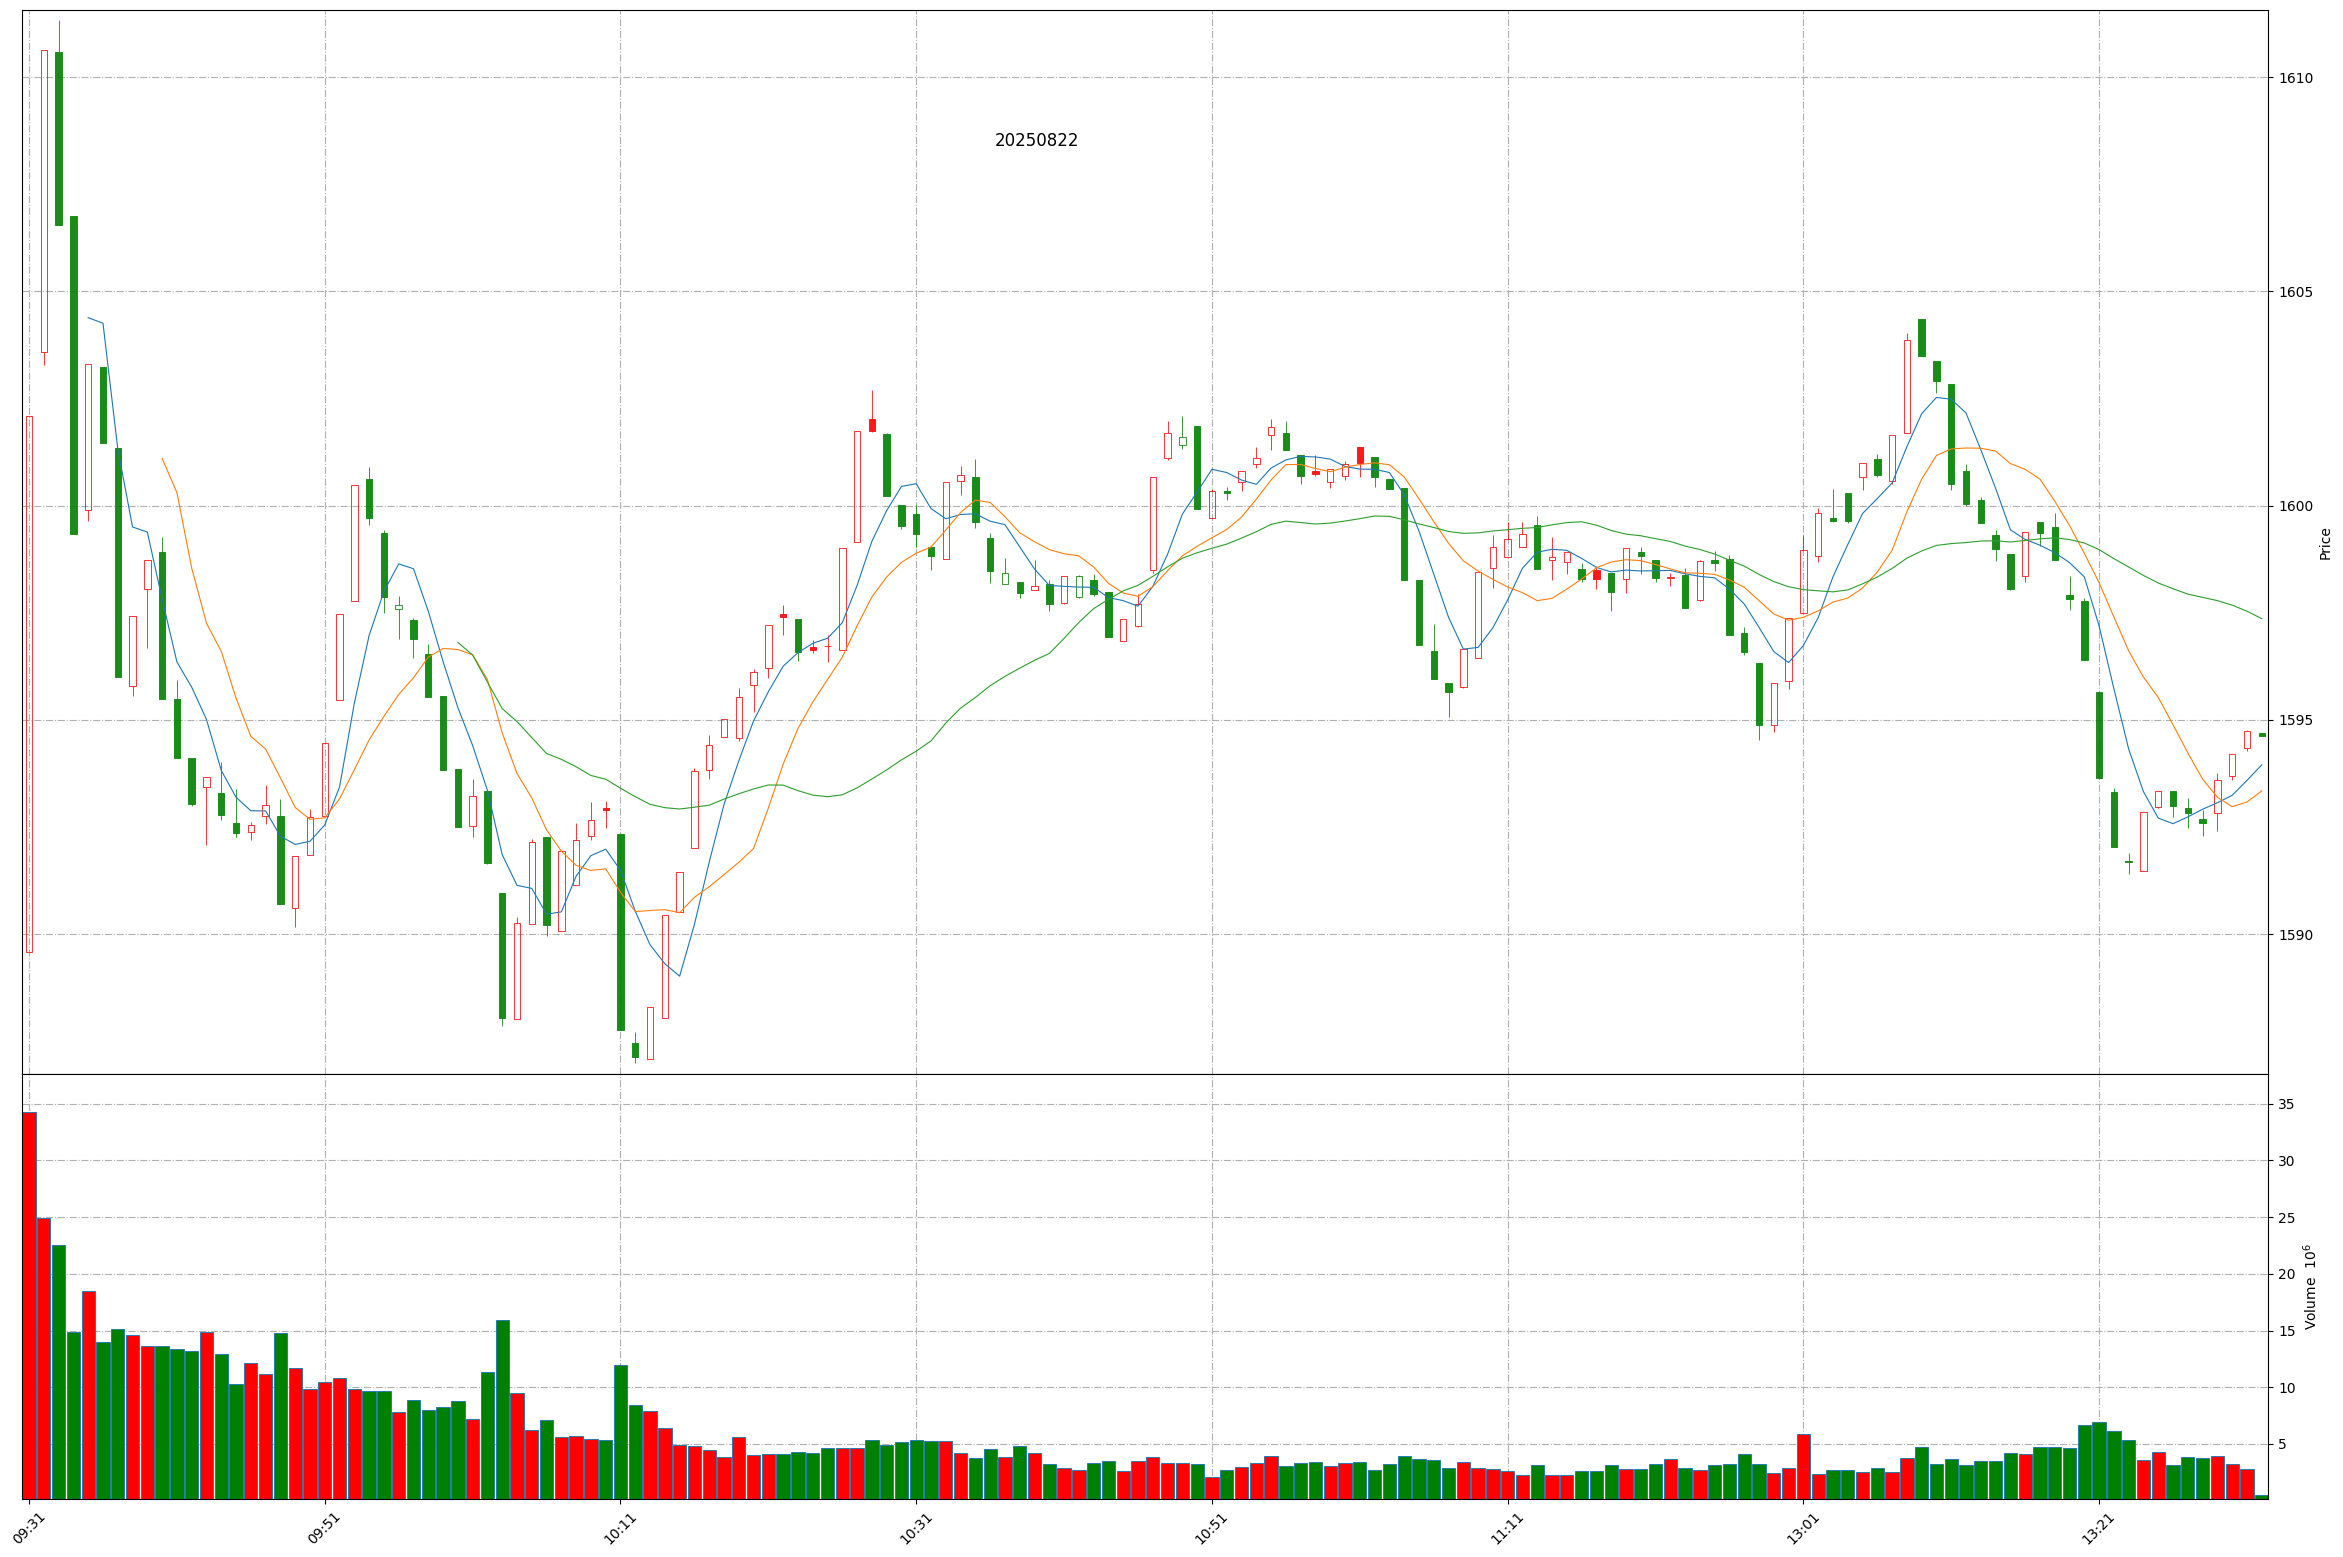
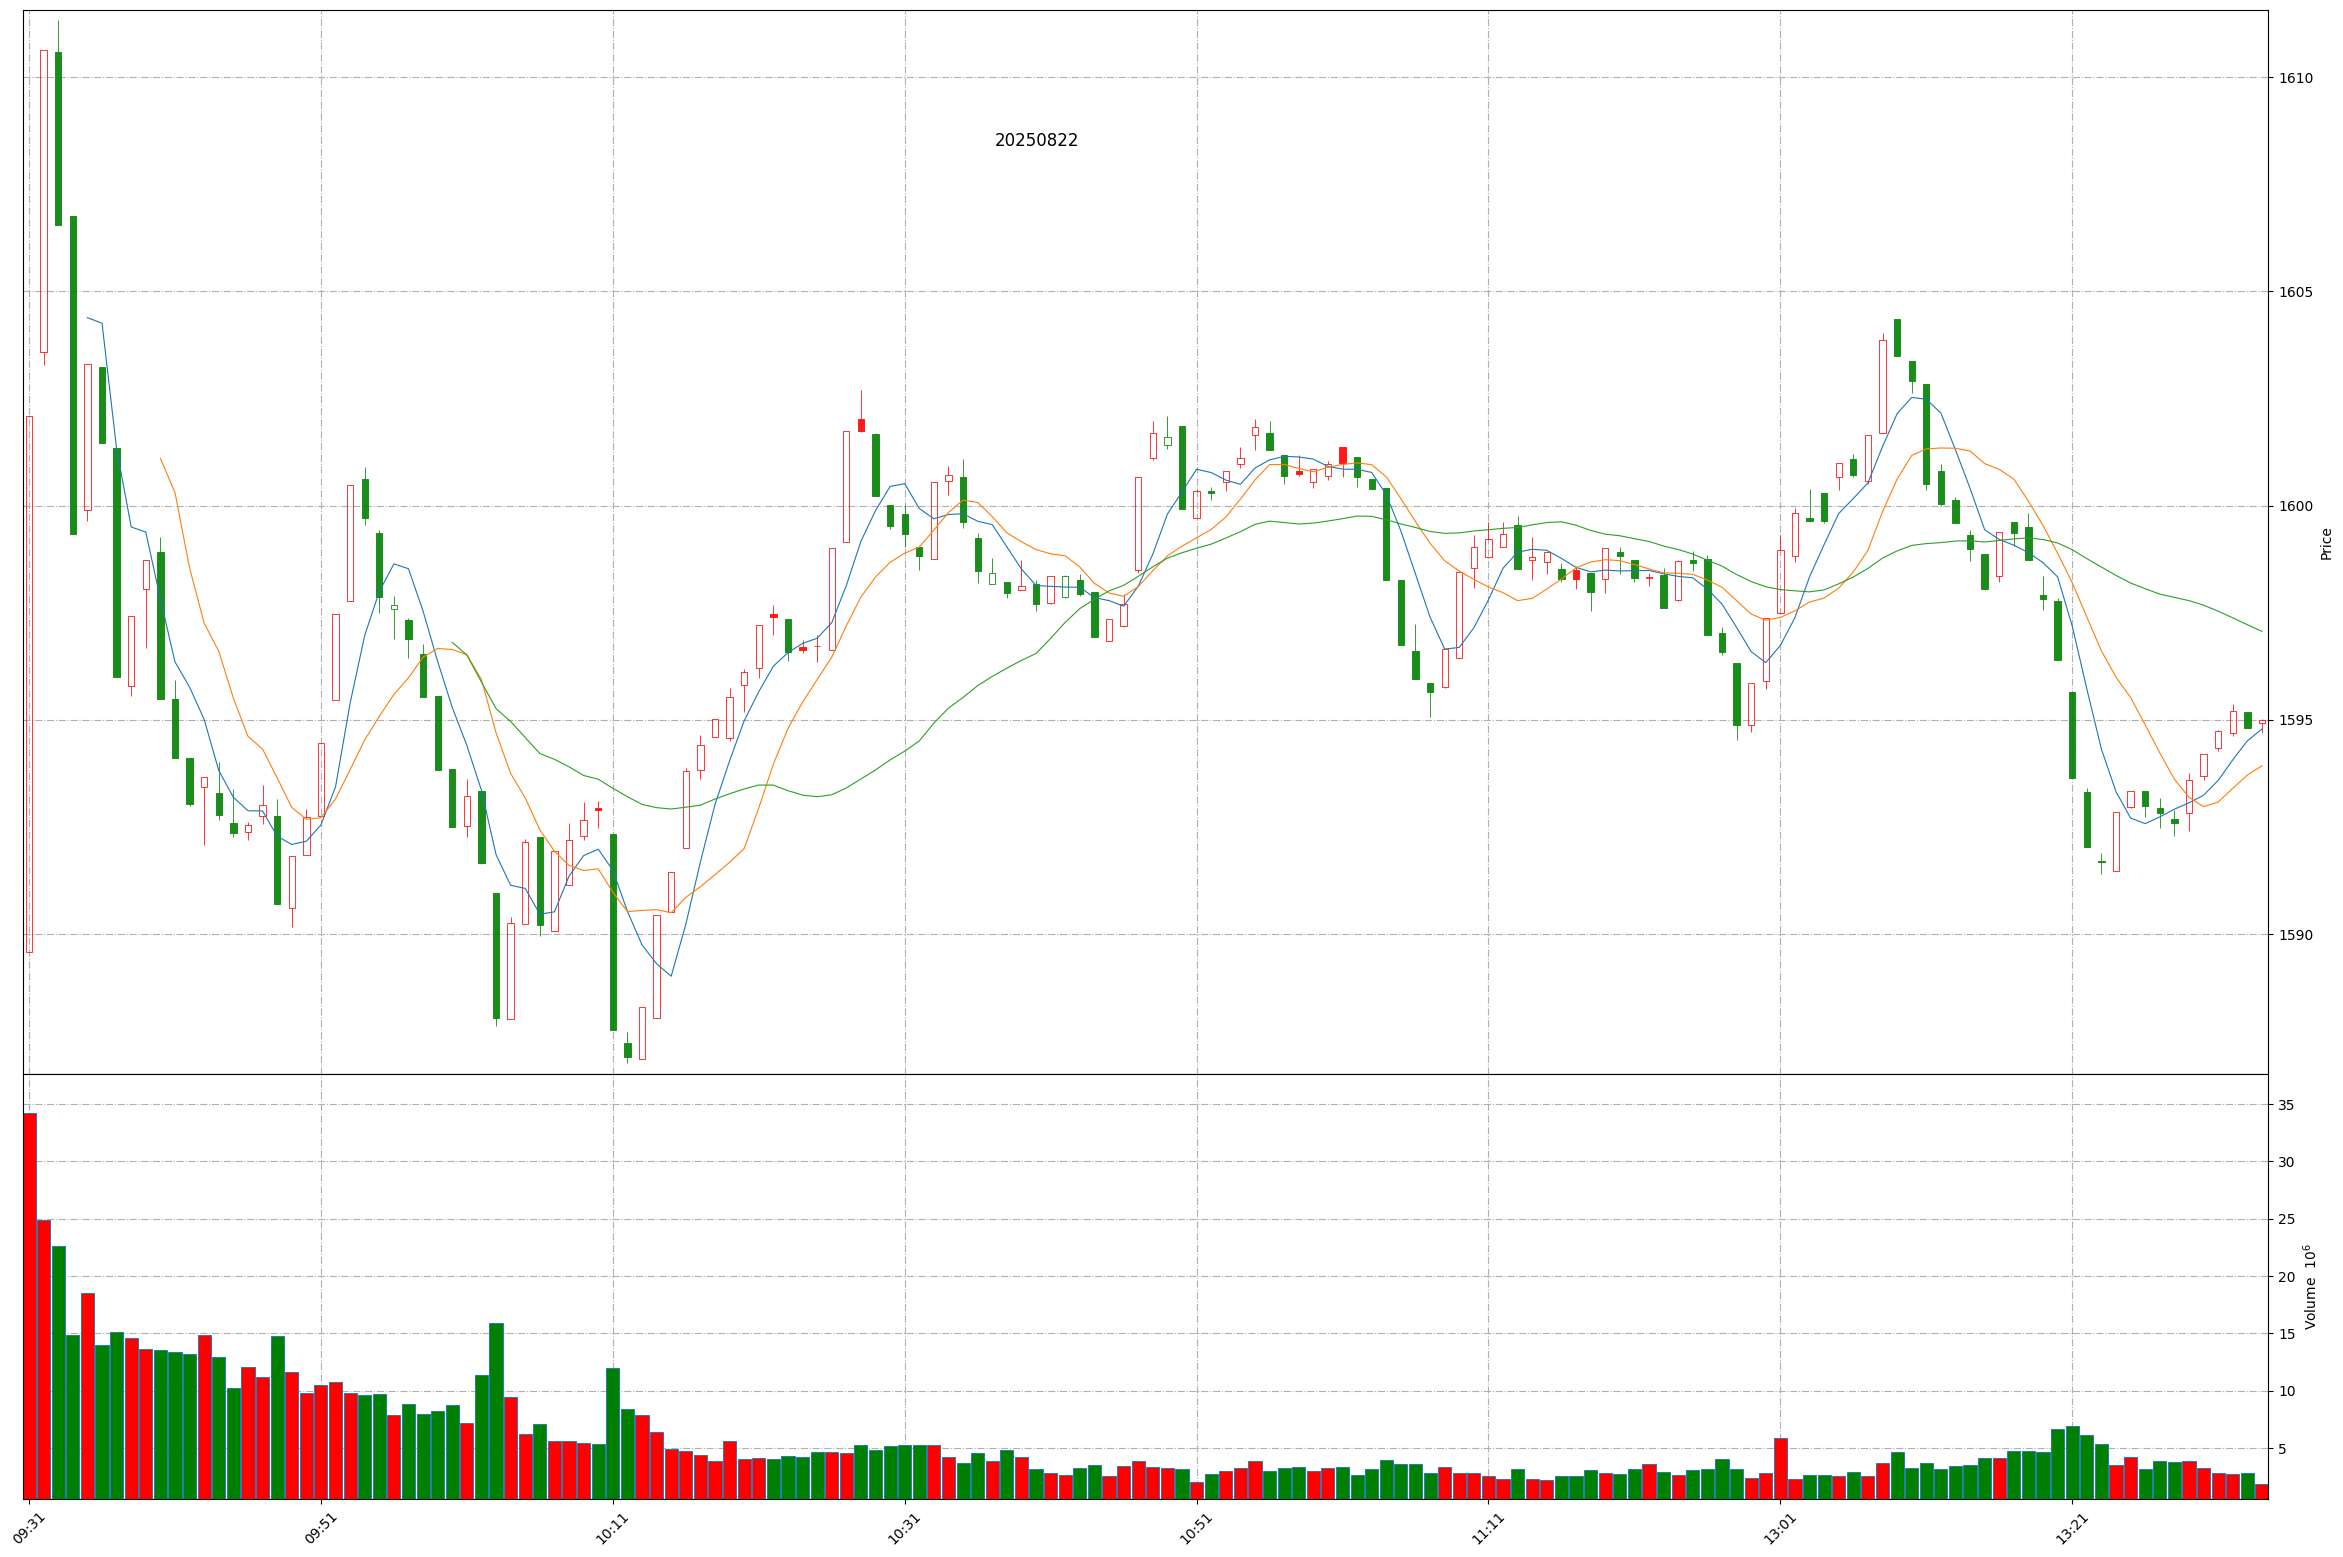
Github action update at 2025-08-22 13:33:48.

diff --git a/README.md b/README.md
@@ -1,11 +1,11 @@
 
 # Daily-A-share-market-quotes 每日 A 股指数（5min 更新）- 20250822
 
-### 上证指数 20250822 13:31
+### 上证指数 20250822 13:33
 ![](./fig/2025/8/20250822-sh000001.png)
 
-### 深证成指 20250822 13:31
+### 深证成指 20250822 13:33
 ![](./fig/2025/8/20250822-sz399001.png)
 
-### 北证50 20250822 13:31
+### 北证50 20250822 13:33
 ![](./fig/2025/8/20250822-bj899050.png)
